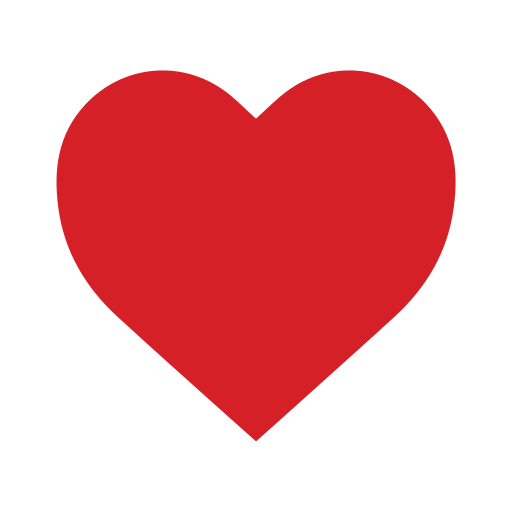
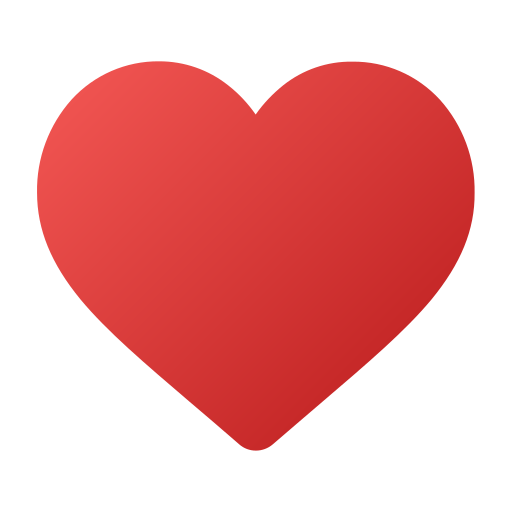
life

Changed region(s): [[0.0625, 0.0938, 0.9375, 0.875]]

diff --git a/index.html b/index.html
@@ -9,7 +9,7 @@
   <style>
     @import url('https://fonts.googleapis.com/css2?family=Fascinate&family=Roboto:wght@100;300;700;900&display=swap');
     </style>
-</head>
+   </head>
 
 <body>
   
@@ -19,6 +19,16 @@
     <h1>Let's save the ocean</h1>
     <canvas id="canvas" class="canvas" width="700" height="400">></canvas>
     <button id="start-btn" class="start-btn">START</button>
+    </div>
+
+ <div id="hearts">
+  <img class ="life" src="/img/life.png" alt="life">
+  <img class ="life" src="/img/life.png" alt="life">
+  <img class ="life" src="/img/life.png" alt="life">
+  <img class ="life" src="/img/life.png" alt="life">
+  <img class ="life" src="/img/life.png" alt="life">
+  <img class ="life" src="/img/life.png" alt="life">
+  <img class ="life" src="/img/life.png" alt="life">
 </div>
 
   <script type="text/javascript" src="/javascript/constants.js"></script>

diff --git a/javascript/submarine.js b/javascript/submarine.js
@@ -11,6 +11,9 @@ class Submarine {
     this.vx = 0;
     this.vy = 0;
 
+    this.health = 1200;
+    this.damage = 50;
+
     this.actions = {
       up: false,
       down: false,
@@ -94,6 +97,10 @@ class Submarine {
         this.actions.enter = apply
         break;
     }
+  }
+
+  receiveDamage(damage) {
+    this.health -= damage
   }
 
   draw() {

diff --git a/javascript/game.js b/javascript/game.js
@@ -10,9 +10,13 @@ class Game {
 		this.tickObstacle = 0;
 		this.tickTrash = 0;
 		this.tickHealth = 0;
+		
+		var score = 0;
+		
 
 		this.sound = new Audio();
         this.sound.src = '/audio/01. Yellow Submarine (Original Uk Mono Mix).mp3';
+
 	}
 
 	start() {
@@ -105,5 +109,6 @@ class Game {
 			}
 		});
 	}
+
 }
 

diff --git a/css/styles.css b/css/styles.css
@@ -52,3 +52,17 @@ h1{
     font-family: 'Fascinate', cursive;
     color: white;
 }
+
+#hearts{
+    display:flex;
+    flex-direction:row;
+    align-items: center;
+    justify-content: center;
+    margin-top: -495px;
+    margin-left: -490px;
+    
+}
+  .life{
+    width: 24px;
+    height: 24px;
+  }

diff --git a/javascript/constants.js b/javascript/constants.js
@@ -2,6 +2,6 @@ const RIGHT = 39;
 const LEFT = 37;
 const UP = 38;
 const DOWN = 40;
-const ENTER = 13;
+const ENTER = 32;
 const CANVAS_WIDTH = 700;
 const CANVAS_HEIGHT = 400;
